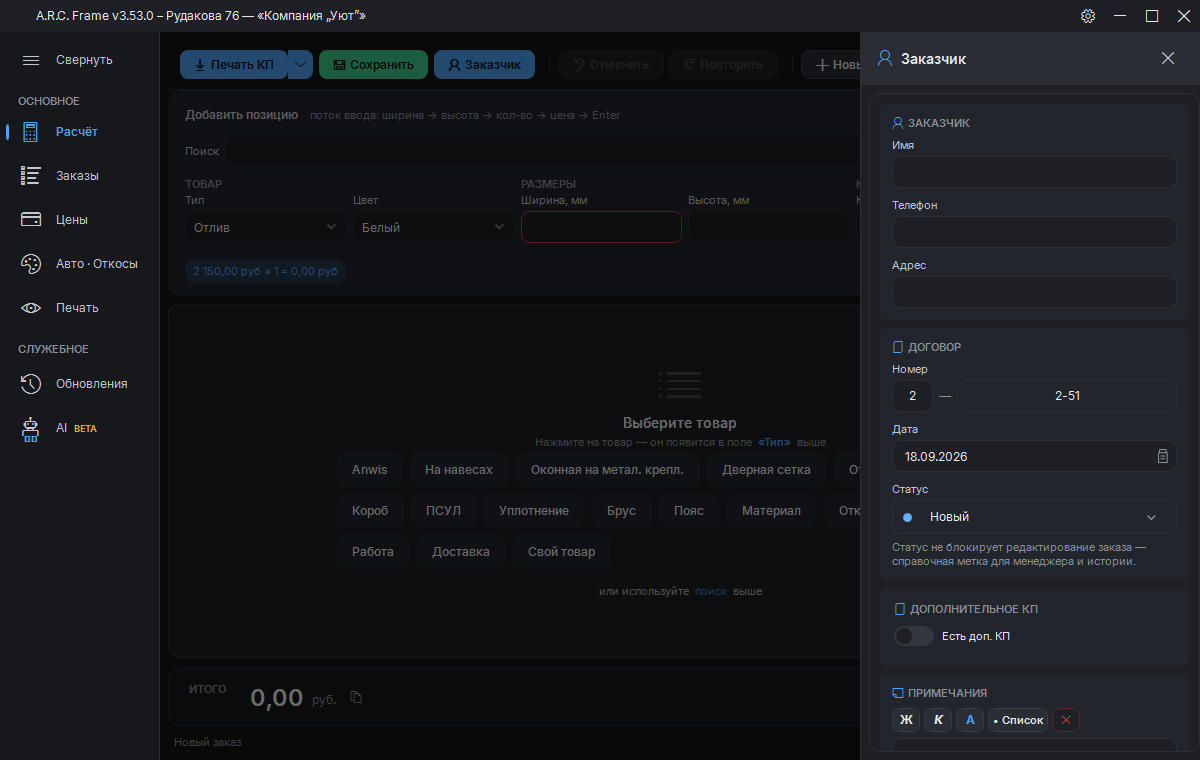
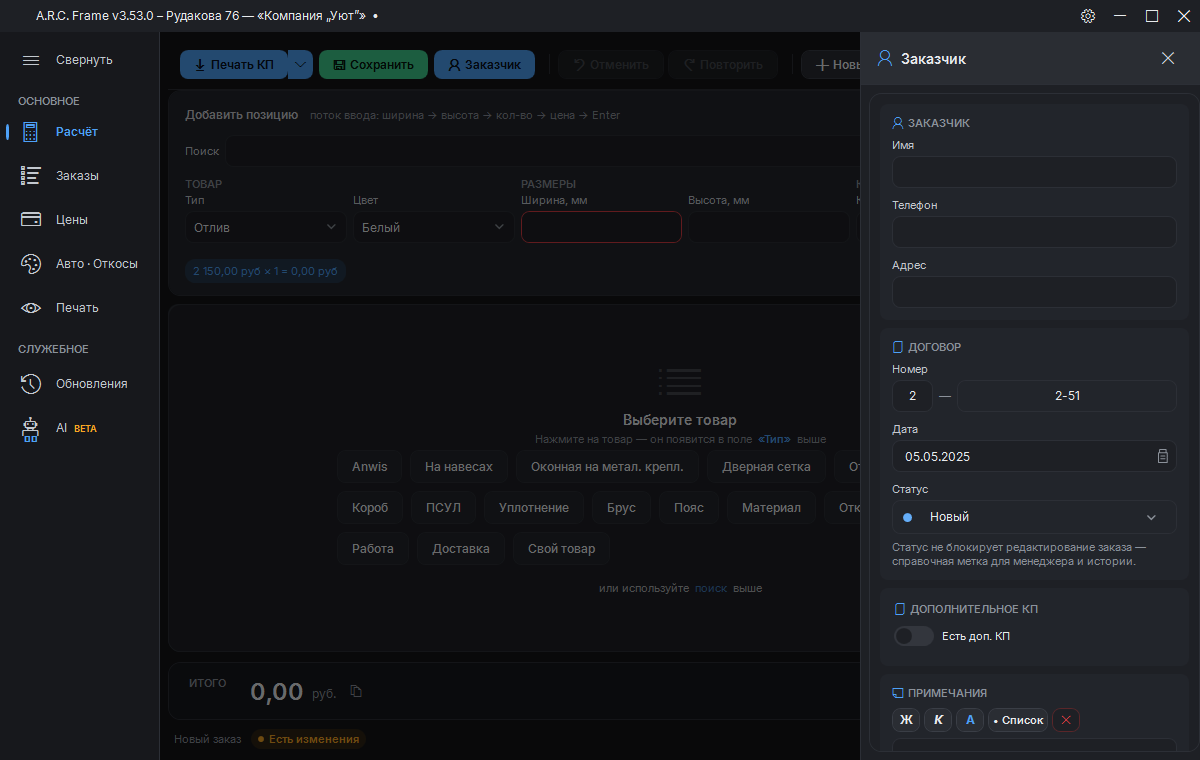
test(harness): убрать из кадров зависимость от суток и от каретки
Ровно через сутки после перегенерации базлайнов прогон БЕЗ правок кода разошёлся на
5 кадров из 35 — то есть контракт «расхождение базлайна = изменение вида», ради
которого переделывался харнесс, сам себя отменял раз в сутки.

- 04a-sidebar-open и 05-print-toolbar (обе темы) показывали СИСТЕМНУЮ дату: дата
  договора (ClientInfo.ContractDate = DateTime.Today для нового заказа) в поле «Дата»
  сайдбара «Заказчик» и та же дата в шапке печатного КП («№ 2-51 от …»).
- 03-quickadd-invalid — 15 пикселей каретки: поле с ошибкой приложение фокусирует
  само, а каретка живёт по таймеру CaretBlinkTime и попадает в кадр по случайной фазе.

Теперь входные данные кадра фиксируются, а не «сегодня совпало»: дата договора
ставится харнессом через штатное поле приложения (ValuePattern + чтение ОБРАТНО,
05.05.2025 — день равен месяцу, чтобы значение не зависело от порядка «дд.мм»/«мм.дд»
в культуре), а перед каждым кадром Assert-FocusNotInTextEdit делает фокус в текстовом
поле ОШИБКОЙ прогона: снятие фокуса доводится до факта (клик по инертной точке,
повторы, при необходимости — перевод на нейтральную кнопку). Поведение приложения не
меняется: дата фиксируется только на время прогона.

Базлайны перегенерированы ОДИН раз (4 кадра тёмной темы, 3 светлой), каждый разобран
вырезками: 04a — дата и чип «Есть изменения», 05 — дата шапки КП, 03 — ушла каретка,
06b — ушло кольцо фокуса в поиске. Доказательство: два прогона одного дня из РАЗНЫХ
[…]

diff --git a/agents/docs/CURRENT_STATE.md b/agents/docs/CURRENT_STATE.md
@@ -5,6 +5,7 @@
 - **Самоустановка шрифта per-user (Unreleased):** если семейства Inter нет на устройстве, запущенное приложение само ставит его из вшитых ttf — файлы в `%LocalAppData%\MosquitoNetCalculator\fonts\<версия>\`, `AddFontResource` + ключ `HKCU\...\Fonts`, без admin и без установщика. Фоново и best-effort (старт не зависит), страховка для печати и внешних просмотрщиков — UI рисует Inter из сборки. Ловушки и проверки — GOTCHAS §32, тесты — `FontSelfInstallServiceTests` (7, реестр в изоляции).
 - **Единая типографика: семьи шрифтов только через токены (Unreleased):** аудит «везде один шрифт» нашёл 80 литералов иконочной семьи в разметке (токен `Font.Icon` существовал, использовался 4 раза), `Consolas, Courier New` мимо каскада `Font.Mono` в AI-чате и три `new FontFamily(...)` в C#. Все сведены: разметка → `{DynamicResource Font.Icon}`, код → `AppFontService.CreateIconFamily()/CreateMonoFamily()`. Реальный дефект закрыт: глиф закрытия `DialogService` без MDL2-фолбэка рисовал tofu на Windows 10 (семьи «Segoe Fluent Icons» там нет; WPF молча рисует квадрат). Стражи: литерал семьи в разметке — ошибка всегда (раньше иконочные страж сам разрешал), фолбэк Win10 в токене держит `IconFontToken_KeepsWin10Fallback`, в C# — `FontFamiliesInCode_UseAppFontService_ExceptPrintLayer` (исключение — печатный слой: бумага не переключается темой). Проба стража дала падение с точным файлом; 2382/2382, verify-pixels чист (кадры не изменились — ownership, а не вид). Разбор — GOTCHAS §31.
 - **Смок-харнесс устойчив к занятому столу (Unreleased):** прогон 2026-09-16 записал кадры в чужом состоянии (второй экземпляр приложения держал фокус; клик не дошёл, закрытие промахнулось — 05/06 сняли главное окно вместо оверлея, 04b/09a — с 235k пикселей скрима) — и ни одна из четырёх записей не упала. Теперь `.tools/uiverify.ps1` перед каждым кадром и кликом доказывает, что точка/область принадлежат его процессу: сетка 5×4 через `WindowFromPoint`→`GetWindowThreadProcessId`, чужое перекрытие — окно поднимается и проверка повторяется (при отказе foreground-lock — `AttachThreadInput`, последний рубеж `HWND_TOPMOST`), не удалось — сцена падает с диагнозом и кадр НЕ записывается; `Click-At`/`Move-At` отменяются на чужой точке; `Send-Keys-Safe` не шлёт клавиши чужому переднему окну; сцены ждут маркеров UIA и повторяют действие; закрытие оверлея проверяется ПО ЭФФЕКТУ; запись кадра атомарна (tmp + Move с повторами против читателя-проводника). Самопроверка `-SelfTest` держит страж не вакуумным (подставное перекрытие + точка внедрения «закрытие без эффекта» + магента). Попутный дефект доступности: у кнопки закрытия slide-over не было UIA-имени — исправлено (`MainWindow.xaml`) и закрыто стражем в `AccessibilityTests`. Прогон на том же занятом столе: dark+light 17/17 кадров, стражи молчали, оверлеи на выходе закрыты; сверка с HEAD показала, что новые кадры чище старых базлайнов (ушли hover-шум и «залипший» тост). Разбор — GOTCHAS §30.
+- **Кадры харнесса не зависят от суток и от каретки (Unreleased):** через сутки после перегенерации прогон без правок кода разошёлся на 5 кадров из 35 — приложение печатает системную дату (`04a-sidebar-open` — поле «Дата» сайдбара, `05-print-toolbar` — шапка КП «№ 2-51 от …»), а `03-quickadd-invalid` показывал каретку (поле с ошибкой приложение фокусирует само). Теперь дата договора фиксируется харнессом через штатное поле приложения с чтением обратно (приложение не меняется), а фокус в текстовом поле перед кадром — ОШИБКА прогона, не предупреждение. Базлайны перегенерированы один раз (4 кадра тёмной темы + 3 светлой, каждый разобран вырезками); два прогона одного дня из разных стартовых состояний — 17/17 и 17/17 пиксель-в-пиксель; стражи проверены точками внедрения `-InjectNoDateFix` и `-InjectFocusLeak` (первая роняет ровно 04a/05, вторая — прогон на 03 и кадра с кареткой не пишет); `-SelfTest` PASS. Разбор — GOTCHAS §35.
 - **v3.53.0 — премиальная дизайн-система (Unreleased, версия поднята):** редизайн на существующем стеке WPF/.NET 8 без миграций и новых зависимостей. (1) **Дизайн-токены четырёх шкал** — `Themes/Tokens.Spacing|Radius|Typography|Motion.xaml`: отступы 4/8/12/16/24/32/48 с готовыми `Gap.*`/`Pad.*`; радиусы 4/8/12/16/Pill плюс семантика (`Radius.Card`, `Radius.StripeInner` = радиус карточки − 1px рамки, `Radius.BubbleSent/Received` для чата); типографика 11…42 с базовым 12 и полом 11px (ступень 13px исключена — у Inter она «вырождена»: высота чернил на 13px прыгает 9→11px, разбор — GOTCHAS §24); движение 120/180/240/320 мс и три кривые. Порядок мержа в `App.xaml` (`Brushes` → `FocusVisualStyles` → `Tokens.*` → стили) продублирован в тестовом bootstrap — совпадение проверяет тест. (2) **Шрифт Inter (SIL OFL 1.1) вшит** (`Resources/Fonts/*.ttf` как `<Resource>`): офисы работают на Windows 10 без Segoe UI Variable. Подмена `Font.Text` — в `Services/AppFontService` на старте; ВАЖНО: абсолютный pack-URI со `#` WPF разбирает как URI-фрагмент и молча уходит на системный фолбэк (GOTCHAS §20), поэтому весь `Font.*` берётся через `DynamicResource`. (3) **Стражи дизайн-системы** (`MosquitoNetCalculator.Tests/Design/`): ратчет бюджетов литералов (`design-token-budget.json` — больше нельзя, просел — понижай, новый файл сразу на токенах), hex только в цветовом слое — в разметке ноль, в C# покрыто отдельной категорией `hexInCode` (исключение — печатные SVG-схемы `DrawingService`), запрет дробных размеров и пол 11px, существование всех ссылок на токены, порядок мержа словарей, контраст WCAG 2.1 по 28 парам в двух темах с реестром долга (`design-contrast-debt.json` — пуст: все 5 найденных нарушений исправлены), доступность (UIA-имена иконочных кнопок), состояния пустоты из общих блоков, движение (код↔XAML из одних токенов, потолок 320 мс; гейт «отключить анимации» СЖИМАЕТ движение в ноль, а не отменяет его — иначе очистка на `Completed` не выполнилась бы, GOTCHAS §23). (4) **Пустые состояния сведены к одному языку** (`Themes/EmptyStateStyles.xaml`: Card/Panel/Icon/IconSm/Title/Hint/Action) — было шесть разных наборов глифов и цветов на пять контролов. (5) **Радиусы сведены к шкале полностью** (226 литералов → 113 в восьми плотных файлах, затем 113 → 0 по всей разметке и 5 в C# → 0): токен берётся по смыслу элемента (карточка `Radius.Card` / шапка-подвал `CardHeader`-`CardFooter` / поле `Radius.Control` / кнопка-попап `Radius.Md` / бейдж `Radius.Capsule` / пункт меню `Radius.Sm` / прямой угол `Radius.None`), добавлены `Radius.None`, `Radius.CardFooter`, `Radius.StripeRight` и капсулы `Radius.CapsuleSm`/`Capsule`/`CapsuleLg`, в коде — `Helpers/Radii`; бюджет `cornerRadius` обнулён, стык карточки держит `PartialRadiusTokens_MatchTheirCardEdges`. ОТДЕЛЬНАЯ НАХОДКА: `Radius.Pill` (999) НЕ клампится WPF до полусферы — на широком элементе он даёт эллипс (40x20: −69px площади против капсулы), поэтому на квадрате он байт-в-байт равен полувысоте и оставлен только кругам (радио, точки, бегунки, кружок иконки), а капсулы получили свою ступень под высоту шаблона; форму держит `Design/RadiusShapeTests` (разбор — GOTCHAS §27). (6) **Постоянные DPI и рендер:** `app.manifest` (PerMonitorV2, longPathAware, supportedOS 10/11) + общий стиль окна `Window.Shared` (`TextFormattingMode=Display`, `ClearType`, `UseLayoutRounding`, снаппинг, шрифт и размер из токенов), применяемый В ЯВНОМ ВИДЕ во всех 13 окнах. Изначально стиль был неявным — и не работал ни для одного окна: WPF сопоставляет неявный стиль по точному типу, а окна производные (замер: `Style=null`, `Segoe UI` 12px, `Ideal`, без round — GOTCHAS §22); побочно это же лечило шрифт (семья наследуется от окна, и без стиля вшитый Inter до большинства `TextBlock` не доходил). Проверка — рантайм-проверка настоящих окон, а не наличие стиля в словаре. 14 жёстких семей в разметке (`Segoe UI`/`Consolas`) переведены на токены `Font.Text`/`Font.Mono`. Предпросмотр печати сознательно сохраняет `Ideal`. (7) **Hit 5 реальных нарушений контраста исправлены** (`OnAccent` на ярком акценте тёмной темы 2.70:1, опасная кнопка 3.91:1, бейдж опасности 4.15:1, vision-бейдж 3.89:1, hover акцентной кнопки светлой темы 3.30:1). Контракт — `docs/specs/design-system-v3.53.md`. (8) **Плотность таблицы позиций** приведена к 12px-тексту по замеру настоящего рендера: `MinRowHeight` 32 → 26 и `ColumnHeaderHeight` 36 → 26 (шапка была ВЫШЕ строк при самой мелкой подписи 10,5px → `Type.Caption` 11px), кнопка «Вкл» 26 → 20px, сумма монтажа — в строку с бейджем (была подписью ПОД ним — строка выбивалась 39px против 32px). 9 строк + шапка + бар — 286px вместо 354px (−19%). Разбор — GOTCHAS §25, страж — `Design/GridDensityTests`. Числа таблицы перестали слипаться (жалоба «Суммы зажёваны»): у правого выравнивания воздух даётся СЛЕВА — `RightCell` = `Margin` `14,0,6,0` (был симметричный `6,0`, из-за чего длинная сумма в 5–6 знаков вставала вплотную к цене: 18px против 26–36px у остальных колонок; замер по кадрам — 28px/26px после). Страж — `GridDensityTests.NumericCells_KeepAirFromTheirLeftNeighbour`, разбор — GOTCHAS §28. (9) **Размеры шрифта сведены к шкале** по всему проекту: 46 дробных (субпиксельная шкала «вытягивает» глиф — жалоба владельца на меню печати, `PrintMenuItem` 12.5px) и 64 вне-шкальных целых (8/9/10/15/17/22/26) в 29 файлах приведены к 9 (монограммы) / 11 / 12 / 14 / 16 / 18 / 20 / 24 / 32 / 42; дробных в разметке 0, вне-шкальный размер — ошибка теста `FontSizes_LiveOnTheScale` (GOTCHAS §26). Исключение — печатный слой `FlowDocumentBuilder`. (10) **Шрифт попапов** (жалоба владельца: «А вот это окно подверглось „редизайну“ с новым шрифтом?» — контекстное меню карточек «Заказы»): меню и подсказки живут в отдельном Popup-дереве и НЕ наследуют оформление окна, а стиль `MenuItem` задавал только размер — умолчание `Control.FontFamily` = `SystemFonts.MessageFontFamily` давало Segoe UI. Замер чёрнил по кадру владельца: «Открыть заказ» 78px и «Копировать» 64px — Segoe UI (Inter: 87 и 69). Теперь `FontFamily` из токена в стилях `ContextMenu`/`MenuItem`, а у `ToolTip` (раньше без стиля вообще — системный светлый прямоугольник поверх тёмного UI) появился неявный стиль на токенах; страж — `Design/PopupTypographyTests` (скан + рантайм-разрешение + контрольная группа), разбор — GOTCHAS §29. Тесты: **2379/2379 pass**, сборка 0/0. Перепроверка перед выпуском нашла и закрыла четыре дефекта: общий стиль окна не применялся ни к одному окну; вшитый Inter поэтому не доходил до текста (на одном экране соседствовали Inter 11 и Segoe UI 12–13); гейт «отключить анимации» был мёртвым кодом, а его наивное включение вешало тосты и оверлеи; вторая палитра бейджей в C# жила вне стражей (теперь статус → ключ токена, и точка статуса следует теме). Разборы — GOTCHAS §22–23.
 
 - **v3.50.1: паритет с прототипом, второй проход (Unreleased) — только кисти/типографика:** (1) тёмный текст прототипа `#06121F` на залитых акцентных кнопках — новый токен `OnAccentPrimary` (light-зеркало — белый; `OnAccent` не тронут — он на чекбоксах/бейджах вне синих кнопок); (2) ActionBar — плоская полоса на AppBg с нижней границей вместо карточки (стиль `ActionBarFlat`-правки в `ActionBarControl.xaml`); фон рельса навигации — токен `SidebarBg` `#17181C`; (3) **капс заголовков колонок DataGrid** — `Converters/UppercaseHeaderTemplate.Apply(grid)` назначает общий DataTemplate из code-behind в конструкторах OrderItems/OrdersHistory/PricesControl; ВАЖНО: XAML-вариант `{Binding Converter={DynamicResource ...}}` невозможен — Converter не DP, рантайм-краш «DynamicResourceExtension невозможно задать в свойстве Converter» (GOTCHAS-кандидат); строки `Header` не меняются — `BeginningEdit` сравнивает их с «Ширина»/«Высота» (блокировка ячеек = бизнес-логика); (4) подписи навигации 13px, капс-подписи групп QuickAdd, ИТОГО — метка 11px muted + сумма 24px. Тесты: +2 `UppercaseHeaderTemplateTests` (STA-паттерн `RunOnStaThread`): шаблон у всех колонок, `Header`-строки точные. Прогон **2212/2212 pass**, сборка 0 warnings; UI smoke dark зелёный (`GRID-ROWS-AFTER-ENTER=1`, приложение стартует без краша).

diff --git a/CHANGELOG.md b/CHANGELOG.md
@@ -32,7 +32,7 @@
 - **Шапка списка заказов перестала резаться многоточием** (замеры по кадрам владельца): «№ КП» рисовалось как «№…», а «Сумма, руб.» — как «СУММА, Р…». Это остаток той же ошибки, что закрывалась у адреса: правило «объявленный MinWidth — пол» жило только в одном вызове для одной колонки, остальные автосайзер по-прежнему перезаписывал вычисленным минимумом. Замер показал, что дело не в нехватке места, а в отсутствии запаса: для «№ КП» вычисленный минимум — **50,59px** при подписи **50,8px** (не хватает 0,21px), для суммы — ровно 95,0 под 95,0. Теперь объявленный в разметке `MinWidth` — пол для ЛЮБОЙ колонки и любого грида: `DataGridColumnAutoSizer` запоминает объявленное значение при первом обращении и не даёт его опустить (запоминается первое значение, а не текущее — иначе после длинного содержимого минимум остался бы раздутым). Страж `SetColumnMinWidth_DoesNotDropBelowDeclaredMinWidth` падает на старом коде (60 → 50,59), второй — `Заказы_ОбъявленныйMinWidthКолонок_ВмещаетПодписьШапки` — мерит каждую подпись тем же инструментом (`MeasureHeaderWidth`), что и колонка, и требует запас. Живая проверка — кадры 06/06b харнесса до/после в обеих темах: «№…» 22px → «№ КП» 31px, «СУММА, Р…» 67px → «СУММА, РУБ.» 74px; ширины колонок встали на объявленные (№ 68, адрес 150, телефон 131, дата 82, сумма 110, статус 123, обновлено 108). Побочно те же полы получили таблица позиций и цены (цвет 50→55, ширина/высота 64→70, цена/сумма 54→70). Разбор — GOTCHAS §33.
 - **Харнесс: кадры больше не снимаются с окном «Что нового»** (найдено при разборе расхождений базлайнов): оно показывается ОДИН раз на версию — то есть ровно в первом прогоне после обновления — и появляется в UIA позже, чем харнесс его проверял, поэтому семь кадров тёмной темы (01/02/03/04a/08a-d) содержали чужое окно поверх области быстрого добавления (7,5% расхождения на пустом месте). Страж «экран здесь наш» такое не ловит принципиально: окно принадлежит нашему процессу. Закрытие теперь ждёт фактического исчезновения окна (до 12 попыток: UIA-кнопка «Закрыть», затем ESC), а если окно не ушло — прогон падает с диагнозом, а не пишет кадры. Проверка: `-SelfTest` PASS, обе темы 17/17 кадров, `01-main-dark` снова байт-в-байт равен прежнему базлайну. Правило — GOTCHAS §30.
 - **Харнесс: расхождение базлайна теперь означает изменение вида, а не ввода** — перед каждым кадром состояние ввода нормализуется (`Reset-InputState`): клик через `mouse_event` по инертной точке клиентской области (инертность доказывается через UIA) гасит рамку фокуса и подсказку от клавиатурного фокуса, UIA-фокус переводится на элемент окна (без каретки), курсор ставится в фиксированную точку шапки (hover-сцены снимаются с возвратом курсора, диалоги — без клика). Причина: два прогона подряд совпадали пиксель-в-пиксель, а «обычный» против «первого после обновления» расходились на 13 кадров (до 14 000 px): WPF рисовал FluentFocusVisual и тултип на том элементе, который получил клавиатурный фокус раньше, а это зависит от того, показывалось ли «Что нового» и чем его закрыли. Разобранные тупики записаны (движение мыши без смещения не постит `WM_MOUSEMOVE`; `AutomationElement.SetFocus` на окно молча игнорируется при чужом фокусе; Win32 `SetFocus(hwnd)` возвращает каретку в элемент с логическим фокусом; «мигающая каретка» была ложным следом — поле оставшейся каретки менялось, а не фаза). Следствие: базлайны перегенерированы один раз — снят накопленный вводный шум прежних прогонов (рамки, подсказки, каретки в 13 кадрах, подтверждено вырезками); после этого «обычный» и «первый после обновления» прогоны совпадают пиксель-в-пиксель в обеих темах (17/17 и 17/17). Правило и тупики — GOTCHAS §30.
-
+- **Харнесс: кадры больше не зависят от суток и от каретки** — закрыт последний источник несравнимости базлайнов. Ровно через сутки после перегенерации прогон БЕЗ правок кода разошёлся на 5 кадров из 35: `04a-sidebar-open` и `05-print-toolbar` (в обеих темах) — потому что приложение печатает СИСТЕМНУЮ дату (поле «Дата» сайдбара «Заказчик» = `DateTime.Today` для нового заказа, та же дата — в шапке печатного КП «№ 2-51 от …»), а `03-quickadd-invalid` — на 15 пикселей каретки (поле с ошибкой приложение фокусирует само, а каретка живёт по таймеру `CaretBlinkTime`). То есть контракт «расхождение базлайна = изменение вида» ломался сам, раз в сутки, а прошлая проверка сравнивала кадры одного дня и этого не показывала. Теперь дата договора фиксируется харнессом через штатное поле приложения (`ValuePattern` + ЧТЕНИЕ ОБРАТНО, `05.05.2025` — день равен месяцу, чтобы значение не зависело от порядка «дд.мм»/«мм.дд» в культуре), приложение при этом не меняется; а перед каждым кадром `Assert-FocusNotInTextEdit` делает фокус в текстовом поле ОШИБКОЙ прогона (в кадре была бы каретка) — снятие фокуса доводится до факта кликом по инертной точке и, при необходимости, переводом на нейтральную кнопку. Базлайны перегенерированы один раз: 4 кадра тёмной темы и 3 светлой, каждый разобран вырезками (04a — дата и чип «Есть изменения», 05 — дата шапки КП, 03 — ушла каретка, 06b — ушло кольцо фокуса в поиске); изменений от миграции отступов нет. Проверка: два прогона одного дня из РАЗНЫХ стартовых состояний (обычный и «первый запуск после обновления») — **17/17 и 17/17 пиксель-в-пиксель**, плюс третий прогон тёмной темы. Стражи проверены точками внедрения: `-InjectNoDateFix` роняет ровно 04a и 05 («от 05.05.2025» против «от 20.09.2026»), `-InjectFocusLeak` РОНЯЕТ прогон на 03 с диагнозом `фокус стоит в текстовом поле (id='TxtQuickWidth')` и кадра с кареткой не пишет. Разбор и правило — GOTCHAS §35.
 - **Шаг 6: шкала отступов получила принуждение** — замыкает последний из четырёх блоков плана редизайна без стража. В разметке жило **694 литеральных Margin/Padding** (36 файлов, 407 со значениями вне шкалы 4·8·12·16·24·32·48 — те самые «почти одинаковые» 5/6/7/10/14, против которых шкала и вводилась), при том что токены `Gap.*`/`Pad.*` существовали с самого запуска. Теперь: (1) ратчет-бюджет `margins` в `design-token-budget.json` (число на файл может только убывать; `Margin="0"` литералом не считается) + страж `SpacingLiterals_DoNotGrow`; (2) `SpacingValues_LiveOnTheScale` — значение обязано лежать на шкале по каждому компоненту Thickness, вне-шкальные остатки (микро-зазоры глифов, оптическая подгонка) держит бюджет `totals.offScaleSpacings` (407 → каждое видно в списке падения); (3) `NegativeSpacings_AreExplicitAndBounded` — отрицательные отступы (сейчас три: выделение вкладки, кнопка на краю карточки, рамка диалога) — осознанная оптическая компенсация с собственным бюджетом `totals.negativeSpacings`, а не «забытое число»; (4) мигрированы все точные совпадения токенов: **157 литералов → `Gap.*`/`Pad.*`** (694 → 537), для них добавлены недостающие 12px-направления в `Tokens.Spacing.xaml` (`Gap.BlockLg/BlockTopLg/InlineLg/LeftLg`). Ловушка подсчёта записана (GOTCHAS §34): счётчик бюджета и детектор литералов разъезжаются на отрицательных значениях (`"0,2,-4,0"` — детектор видит, счётчик значения нет), страж падал на честном бюджете, пока оба не сведены к одной логике. Доказательства: проба вставки `Margin="6"` роняет ОБА стража с точным файлом и значением; полный прогон **2394/2394**; обе темы по 17 кадров — **базлайны не изменились ни на один пиксель** (миграция эквивалентна по виду).
 - **Тесты:** +89 (`Design/RadiusShapeTests`, `Design/GridDensityTests`, `Design/TypographyTests`, `Design/DesignTokenGuardTests`, `Design/WindowChromeAndDpiTests`, `Design/AccessibilityTests`, `Design/ContrastTests`, `Design/EmptyStateTests`, `Design/MotionTests`, `Design/GridDensityTests`). Итого **2379/2379 pass**, сборка 0 предупреждений / 0 ошибок, UI smoke dark+light зелёные, 35 кадров-базлайнов перегенерированы.
 - **Перепроверка перед выпуском нашла четыре дефекта** (все исправлены, все закрыты стражами): стиль окна не применялся (неявный стиль + производные окна), вшитый Inter до текста не доходил (следствие первого), гейт reduced-motion был мёртвым кодом, а его наивное включение вешало тосты и оверлеи, и вторая палитра бейджей в C# жила вне стражей. Разборы — GOTCHAS §22–23.
